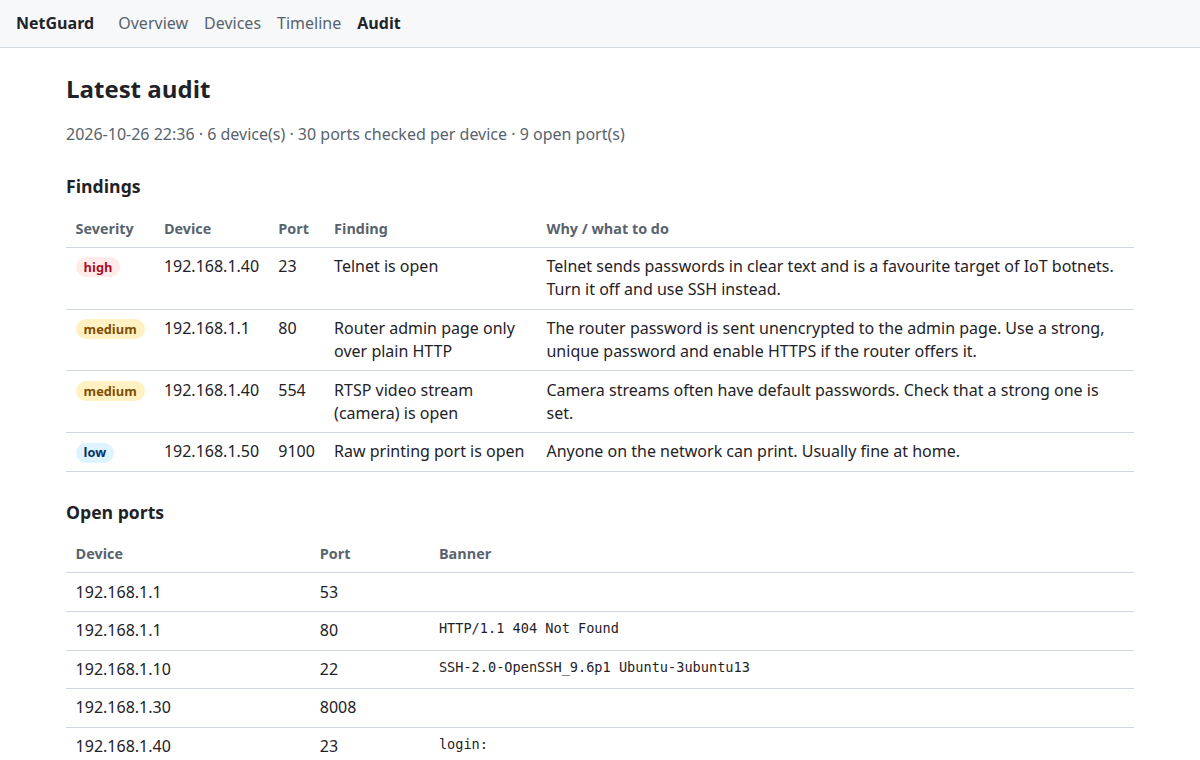
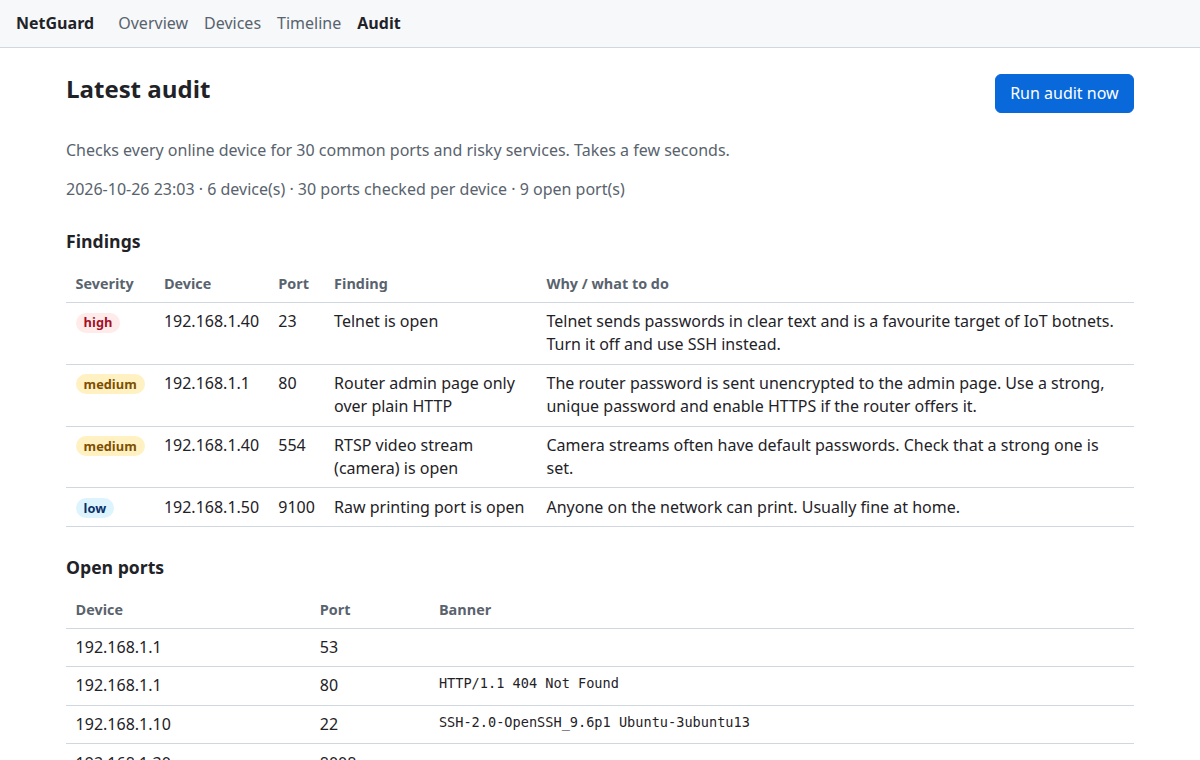
docs: new screenshots of the GUI

diff --git a/README.md b/README.md
@@ -15,7 +15,9 @@ your own devices for risky open services. A local web dashboard shows it all.
 **New here? Read the step-by-step guide: [docs/USAGE.md](docs/USAGE.md).** It
 covers what NetGuard can do, how to do each task, and what every alert means.
 
-![Dashboard overview with an ARP spoofing alert and a port scan](docs/screenshots/overview.png)
+![GUI overview with an ARP spoofing alert and a port scan](docs/screenshots/overview.png)
+
+![Devices page: name devices and mark them as trusted](docs/screenshots/devices.png)
 
 ![Audit page with risky services and advice](docs/screenshots/audit.png)
 
